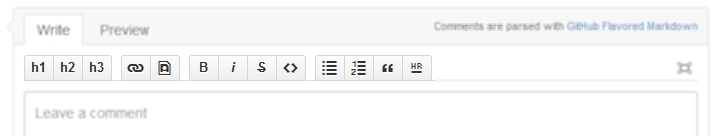
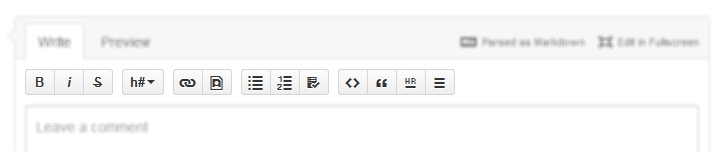
Released v1.2 for Github Comment Enhancer;

diff --git a/Github_Comment_Enhancer/Github_Comment_Enhancer.user.js b/Github_Comment_Enhancer/Github_Comment_Enhancer.user.js
@@ -8,7 +8,7 @@
 // @homepageURL https://github.com/jerone/UserScripts/tree/master/Github_Comment_Enhancer
 // @downloadURL https://github.com/jerone/UserScripts/raw/master/Github_Comment_Enhancer/Github_Comment_Enhancer.user.js
 // @updateURL   https://github.com/jerone/UserScripts/raw/master/Github_Comment_Enhancer/Github_Comment_Enhancer.user.js
-// @version     1.1.1
+// @version     1.2
 // @grant       none
 // @run-at      document-end
 // @include     https://github.com/*/*/issues/*

diff --git a/Github_Comment_Enhancer/README.md b/Github_Comment_Enhancer/README.md
@@ -19,6 +19,14 @@ Add features to enhance comments on [Github](https://github.com).
 
 ### Version History
 
+* **1.2**
+    * Added simple table logic;
+    * Added headers 4 'til 6;
+    * Combined headers in one button;
+    * Reordered buttons;
+    * Added Task Lists https://help.github.com/articles/writing-on-github#task-lists
+    * Added fenced code blocks;
+    * Clean up;
 * **1.1.1**
     * Fixed space being not part of selection again;
 * **1.1**
